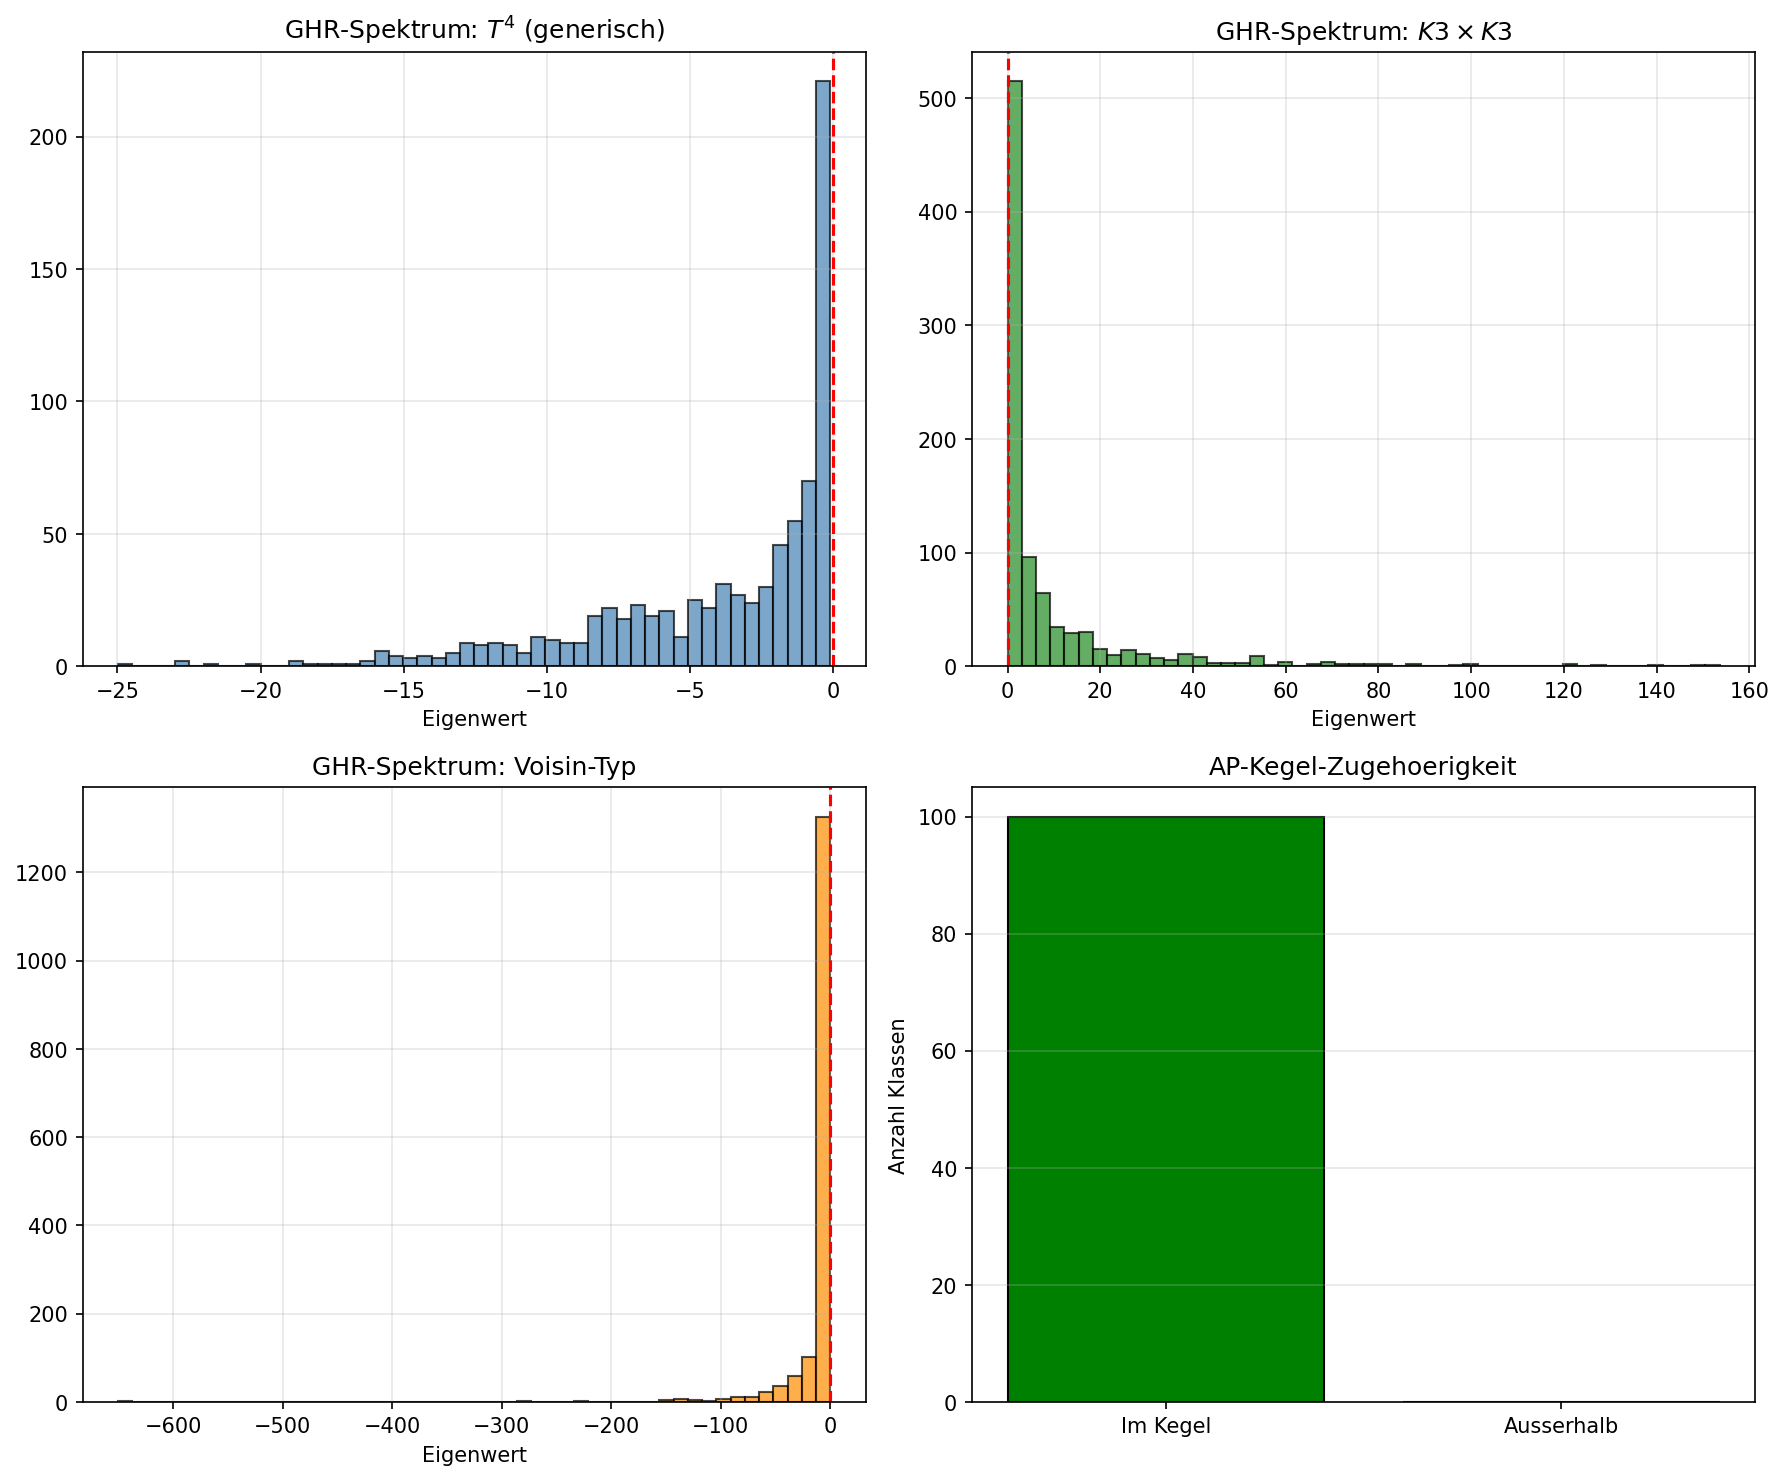
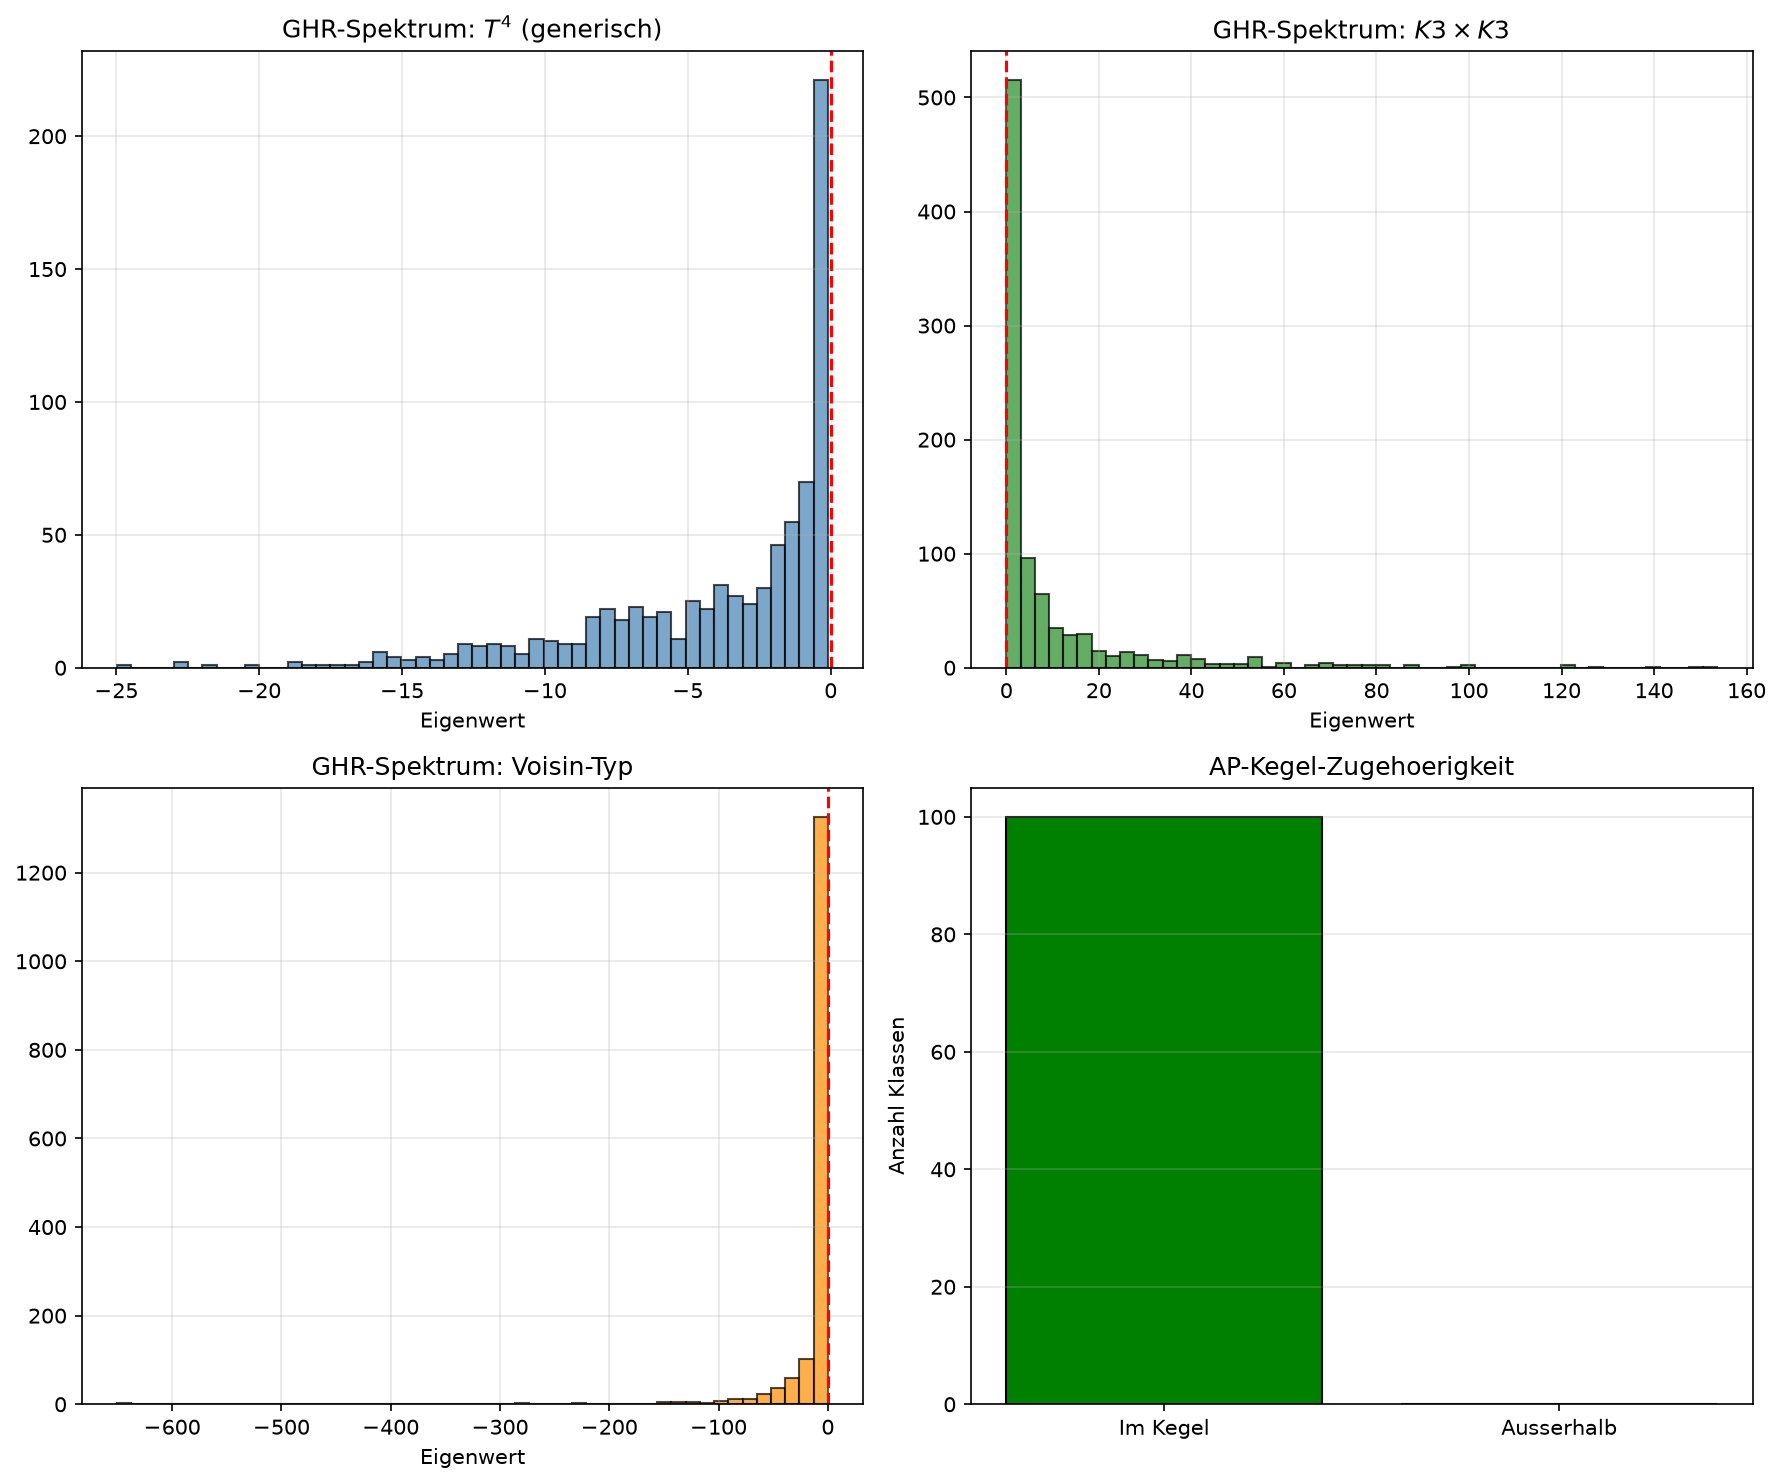
chore: certify foreign change (Code, Tests und Doku aus dem Arbeitsbaum)
Uncommittete Arbeit, die in keinem Remote existierte. Diff gelesen, Testsuite
gelaufen und gruen, keine Secrets, keine Nutzerpfade, keine
Funktionsverschlechterung -- daher zertifiziert statt liegengelassen.

Ticket: T-20260913-345273888

Claude-Session: https://claude.ai/code/session_01RZVTLHtVLEhdALDmafKeJG

diff --git a/README.md b/README.md
@@ -1,5 +1,8 @@
 # Functional Stability Theory (FST)
 
+<img src="assets/banner.png" width="100%" alt="Functional Stability Theory banner">
+
+
 [![License: CC BY 4.0](https://img.shields.io/badge/License-CC_BY_4.0-lightgrey.svg)](https://creativecommons.org/licenses/by/4.0/)
 [![ORCID: Lukas Geiger](https://img.shields.io/badge/ORCID-0009--0005--7296--1534-green.svg)](https://orcid.org/0009-0005-7296-1534)
 [![Zenodo Spectrum Duality](https://img.shields.io/badge/Zenodo-10.5281%2Fzenodo.19036190-blue.svg)](https://doi.org/10.5281/zenodo.19036190)
